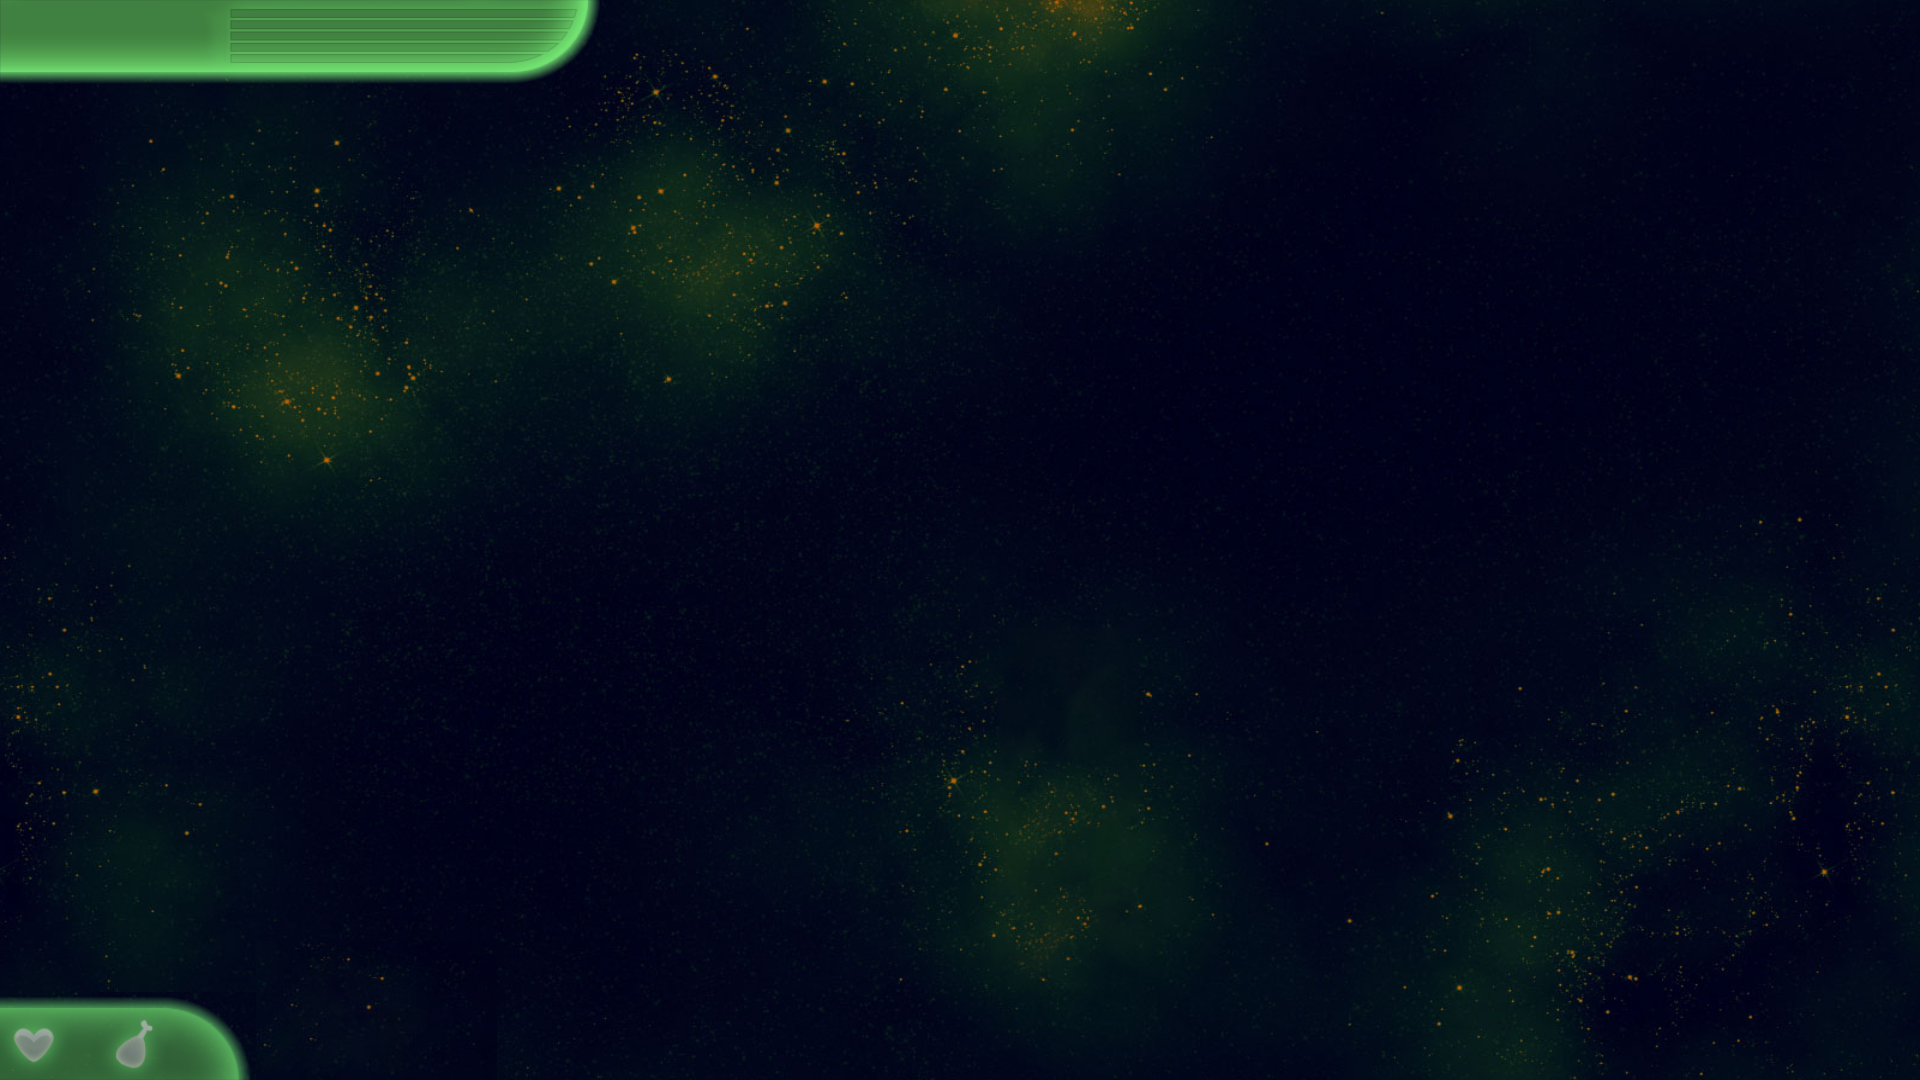
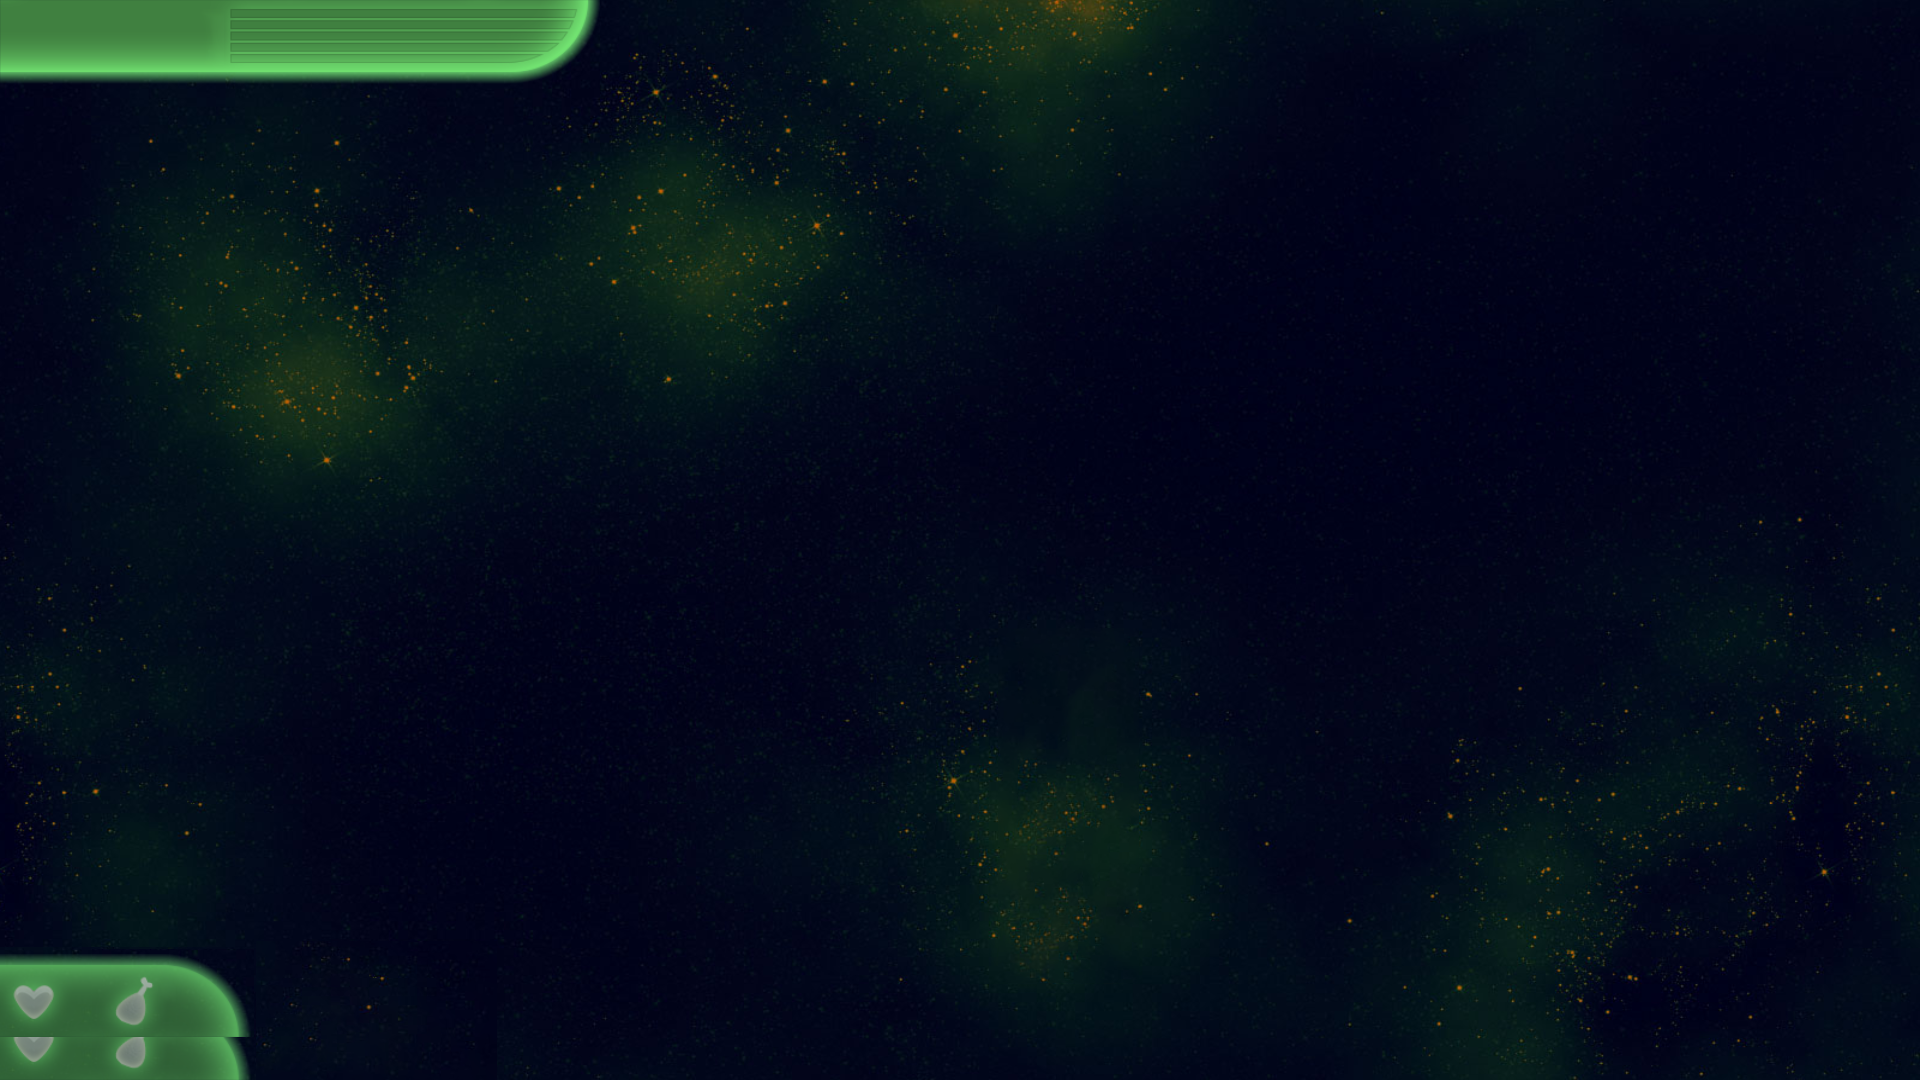
background change fixed

Changed region(s): [[0.0, 0.8861, 0.125, 0.9778]]

diff --git a/Game.cpp b/Game.cpp
@@ -110,7 +110,11 @@ void Game::setscene()
 
 void Game::setBackground()
 {
+    if(level <2){
     setBackgroundBrush(QPixmap(":/Backgrounds/Images/LevelOneBack.png"));
+    }else{
+        setBackgroundBrush(QPixmap(":/Backgrounds/Images/LevelTwoeBack.png"));
+    }
 }
 
 void Game::setNextLevel()
@@ -122,6 +126,7 @@ void Game::setNextLevel()
     ++level;
     checkLevel();
     setscene();
+    setBackground();
 
 }
 
@@ -157,6 +162,7 @@ void Game::resetLevel()
     level=0;
     checkLevel();
     setscene();
+    setBackground();
 }
 
 void Game::checkLevel()
@@ -199,7 +205,11 @@ void Game::addLifeBoard()
     lifeboard->setPlainText( QString::number((ship->getLife())));
     lifeboard->setDefaultTextColor(Qt::white);
     lifeboard->setFont(QFont("Bw Stretch Medium",30));
-    lifeboard->setPos(90,970);
+    if(level<2){
+        lifeboard->setPos(90,970);
+    }else{
+        lifeboard->setPos(70,970);
+    }
 }
 
 void Game::addScoreBoard()
